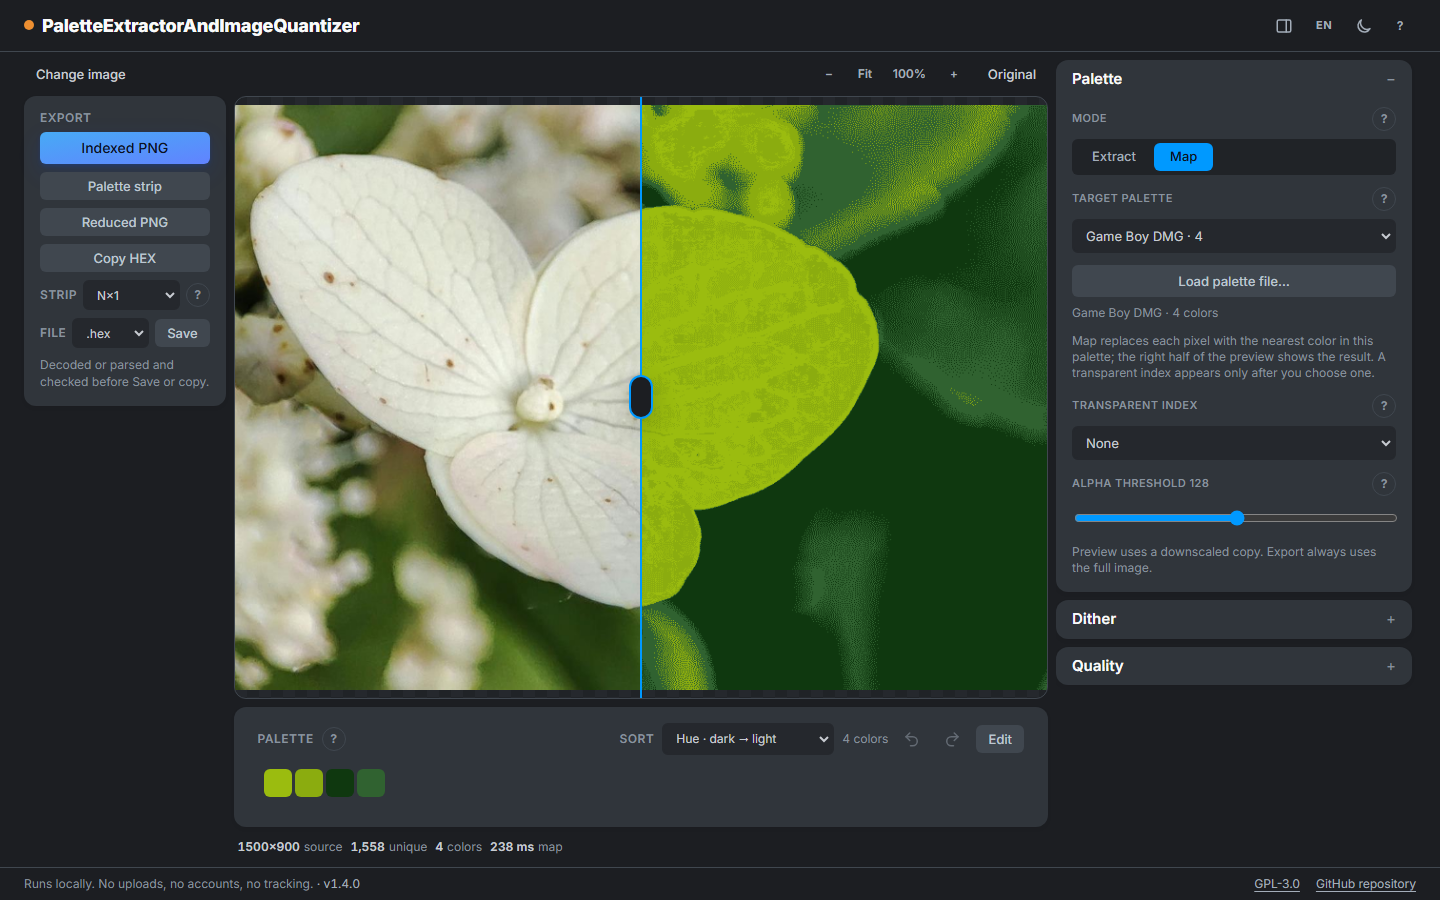
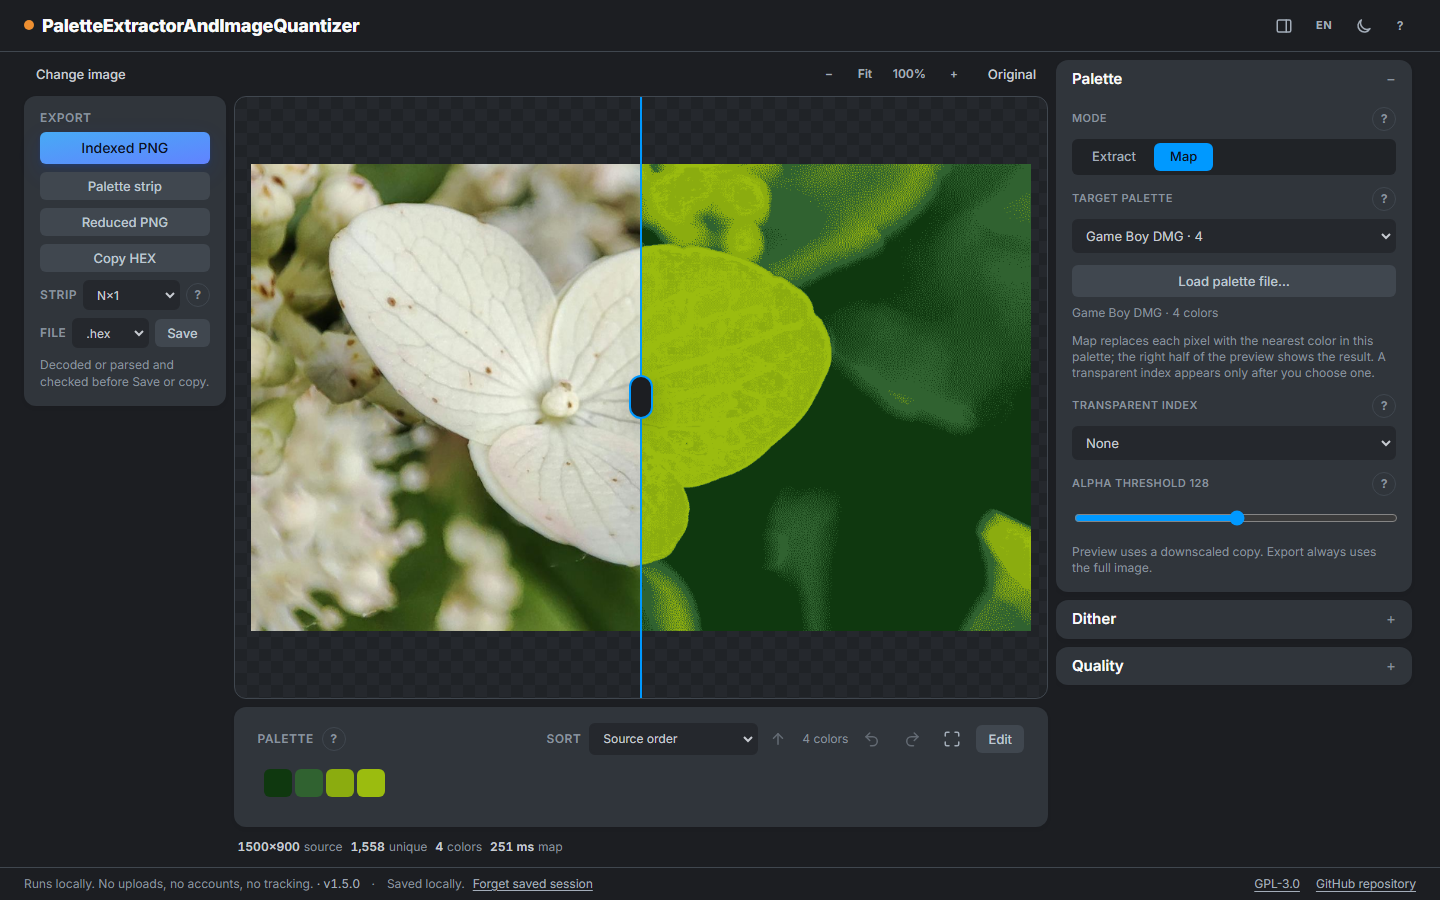
Refresh the README screenshots and social preview
The committed captures still showed v1.4.0 with the old wide sort select, so they no longer matched the shipped compact direction button, the full-screen preview control, or the footer session clear. Recapture both at 1440x900 in dark theme and English from the current v1.5.0 UI, and rebuild the 1200x630 social card from a fresh K-means++ 12-color capture with its matching palette strip.

Rename assets/README.md to assets/PROVENANCE.md so it reads as an asset provenance note rather than a second project readme, and record in AGENTS.md that a stale screenshot or social card is a documentation defect.

Refs: AGENTS.md 7-8; assets/PROVENANCE.md; IMPLEMENTATION_PLAN.md 14

diff --git a/assets/PROVENANCE.md b/assets/PROVENANCE.md
@@ -1,0 +1,46 @@
+# Asset provenance
+
+## Fonts
+
+| File | Purpose |
+|---|---|
+| `fonts/InterVariable-latin.woff2` | Inter variable font, weight 100–900, Latin subset (~48 KB) |
+| `fonts/OFL.txt` | SIL Open Font License for Inter |
+
+- Source: [Google Fonts — Inter](https://fonts.google.com/specimen/Inter), v20 Latin
+  subset, downloaded 2026-11-13.
+- The font is **self-hosted**: no Google Fonts `@import`, no CDN, no runtime request.
+- `DESIGN.md` §3 defines the `@font-face` rule and fallback stack.
+- If the font is replaced or updated, keep `OFL.txt` and update this note.
+
+## Screenshots
+
+`screenshots/workspace-dark.png` and `screenshots/map-dither-dark.png` are captures of
+the running app using a hydrangea photo supplied by the project owner for documentation.
+The workspace capture shows the palette editor open with a selected swatch, the compact
+sort select with its direction button, and the full-screen preview button; the map capture
+shows the Game Boy DMG palette with Floyd–Steinberg dithering and the transparent index at
+None. Both show the footer's confirmed session clear. No third-party artwork, screenshots,
+or stock images are included. Refreshed 2026-11-16 at 1440×900 from the current UI.
+
+Refresh both captures at 1440×900 in dark theme and English whenever the interface
+changes, keeping the same hydrangea composition. A stale capture is a documentation
+defect; see `AGENTS.md` §7.
+
+## Social preview
+
+`og-image.png` is the 1200×630 Open Graph and Twitter Card. It is a static HTML card
+using the self-hosted Inter font: the PEIQ mark, the product name, the page URL, a
+workspace capture of the current UI (K-means++ with 12 colors and hue sort), and the
+matching palette strip. Regenerate it from the current UI whenever the interface or
+palette order changes; a stale card is a documentation defect. No third-party artwork,
+screenshots, or stock images are included. Refreshed 2026-11-16.
+
+## Blue noise
+
+`blue-noise-64.bin` is a 64×64 byte mask generated deterministically by
+`tools/gen-blue-noise.mjs` (void-and-cluster, seed `0x5eed`). It is also embedded as
+base64 in `js/core/dither/blue-noise-mask.js` so the browser never fetches it.
+
[1 lines of base64/hex data omitted]
+- Regenerate with `node tools/gen-blue-noise.mjs`; do not hand-edit the mask.

diff --git a/IMPLEMENTATION_PLAN.md b/IMPLEMENTATION_PLAN.md
@@ -226,7 +226,7 @@ same network can open the tool; `--host=localhost` keeps it loopback-only.
   `js/content/references.js` and render in the Help drawer; print-only papers are cited
   without a redistributed PDF.
 - Inter is self-hosted under the SIL Open Font License 1.1; `assets/fonts/OFL.txt` ships
-  with it and the provenance is recorded in `assets/README.md`.
+  with it and the provenance is recorded in `assets/PROVENANCE.md`.
 - Built-in palettes are factual hardware/community values. Product names and trademarks
   belong to their owners; the project is not affiliated with them.
 - The visual system is original CSS/SVG inspired by Blender’s public design language. No
@@ -1772,11 +1772,13 @@ Legend: **S** = signatures/notes, **T** = required tests.
 
 | Path | Responsibility |
 |---|---|
-| `assets/blue-noise-64.bin` | 64×64 blue-noise mask (checksum in `assets/README.md`) |
+| `assets/blue-noise-64.bin` | 64×64 blue-noise mask (checksum in `assets/PROVENANCE.md`) |
 | `assets/fonts/InterVariable-latin.woff2` | Self-hosted Inter variable Latin subset (~48 KB) |
 | `assets/fonts/OFL.txt` | Inter SIL Open Font License |
 | `assets/favicon.svg` | Local orange-on-charcoal PEIQ mark |
-| `assets/README.md` | Provenance, font source/license, regeneration command |
+| `assets/og-image.png` | 1200×630 social preview card |
+| `assets/screenshots/*.png` | README captures refreshed with the UI |
+| `assets/PROVENANCE.md` | Screenshot, social card, font, and blue-noise provenance |
 | `tools/dev-server.mjs` | Zero-dep static server |
 | `tools/gen-blue-noise.mjs` | Void-and-cluster generator; deterministic seed |
 | `tools/spec.mjs` | Print one plan/DESIGN/research section without loading the whole document |

diff --git a/AGENTS.md b/AGENTS.md
@@ -195,6 +195,10 @@ Import direction is one-way: `ui → worker → core`. `content` is static data 
 - UI changes need a manual browser pass at 1280 px and 360 px, keyboard-only, plus the
   relevant items from plan §10.6. Follow [`docs/agent/browser-check.md`](docs/agent/browser-check.md)
   (skill `peiq-browser-check`) instead of writing a new driver.
+- Any UI change that alters a README screenshot or the social preview must refresh
+  `assets/screenshots/*.png` and `assets/og-image.png` from the current UI in the same
+  change, then update [`assets/PROVENANCE.md`](assets/PROVENANCE.md). A stale capture is a
+  documentation defect, not a follow-up.
 - Theme changes need `test/theme.test.js` parity plus a manual auto → light → dark →
   reload check in both themes.
 - Report the command and its result. “Should work” is not verification.
@@ -203,8 +207,9 @@ Import direction is one-way: `ui → worker → core`. `content` is static data 
 
 A change is done only when `npm test` passes; new behavior has a test; determinism holds;
 no dependency/build/network was added; output contracts still validate; UI changes pass
-the browser check; warnings/errors are surfaced; docs and the decision log are updated;
-and the change is committed locally with a descriptive body (plan §16).
+the browser check; README screenshots and the social preview match the current UI;
+warnings/errors are surfaced; docs and the decision log are updated; and the change is
+committed locally with a descriptive body (plan §16).
 
 ## 9. Documentation
 
